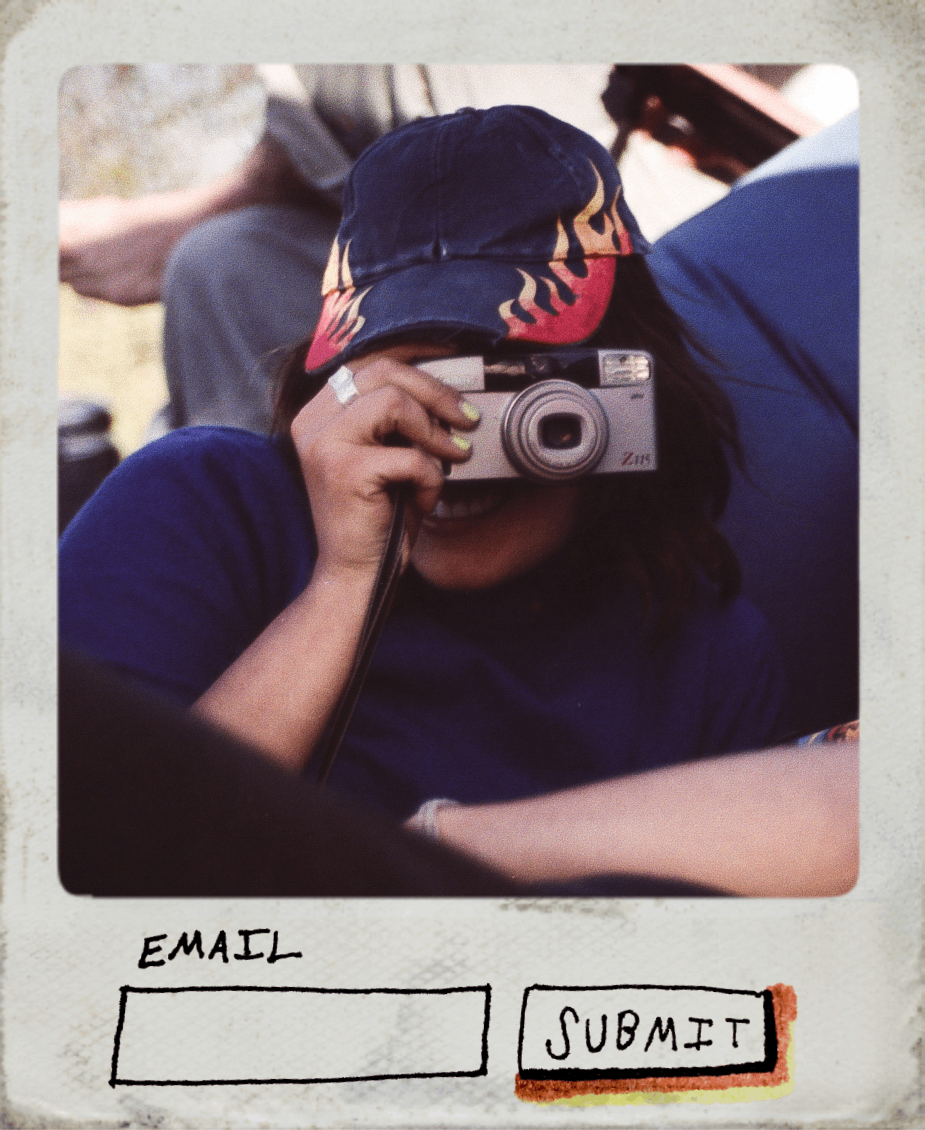
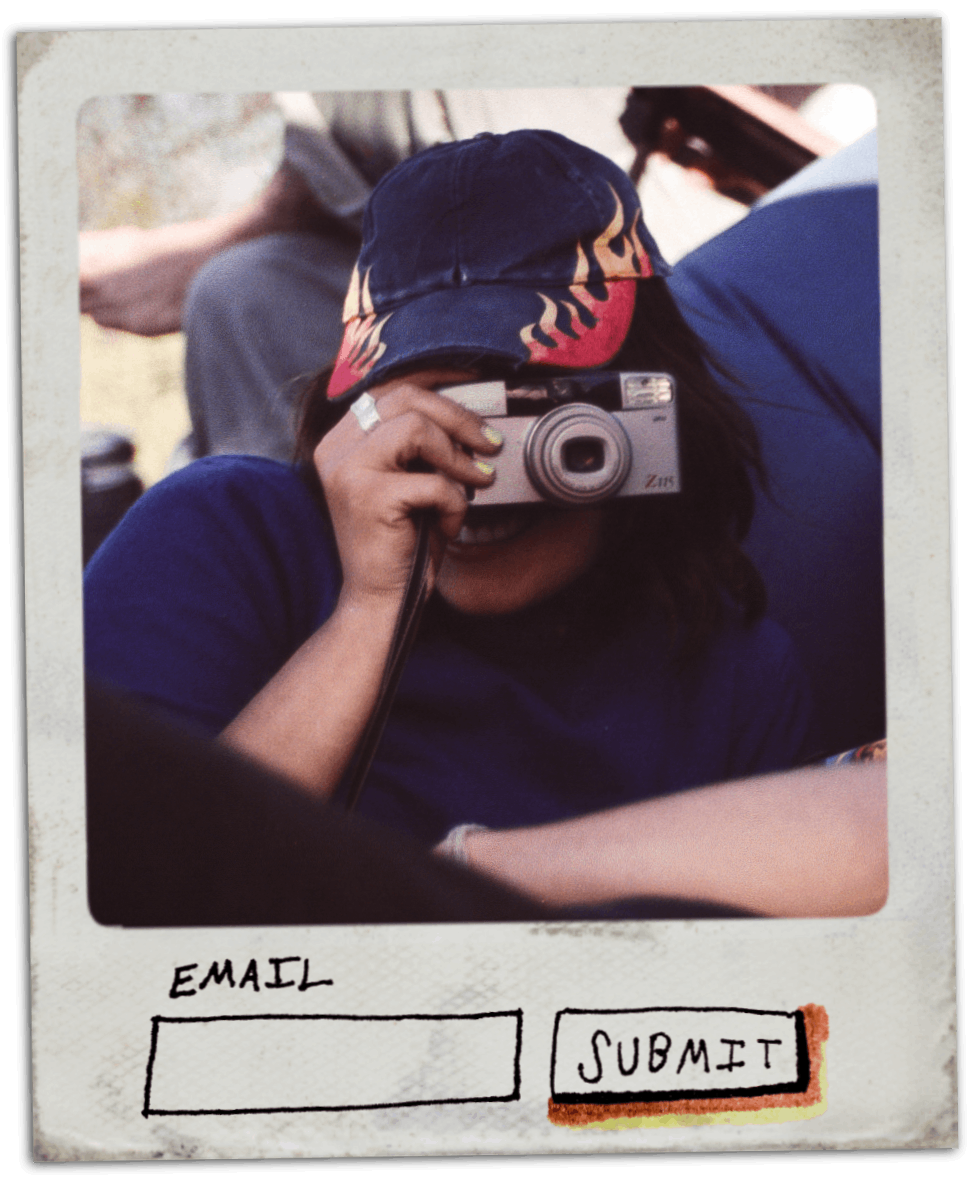
modal update

diff --git a/index.html b/index.html
@@ -36,18 +36,18 @@
   #mce-EMAIL {
     position: absolute;
     font-family: Menlo, monospace;
-    top: 85.5%;
-    left: 16%;
-    height: 7%;
-    width: 36%;
+    top: 84.5%;
+    left: 18.25%;
+    height: 6.5%;
+    width: 34%;
   }
   #mc-embedded-submit {
     position: absolute;
     cursor: pointer;
-    top: 85.5%;
-    left: 56%;
-    height: 7%;
-    width: 25%;
+    top: 84%;
+    left: 56.5%;
+    height: 6.5%;
+    width: 23.5%;
   }
   </style>
   <script src="https://code.jquery.com/jquery-3.2.1.slim.min.js" integrity="sha384-KJ3o2DKtIkvYIK3UENzmM7KCkRr/rE9/Qpg6aAZGJwFDMVNA/GpGFF93hXpG5KkN" crossorigin="anonymous"></script>
